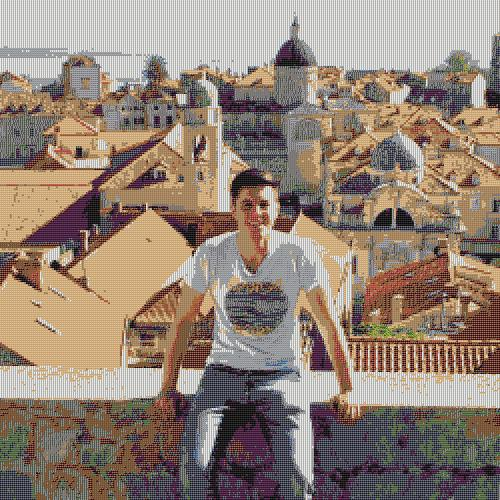
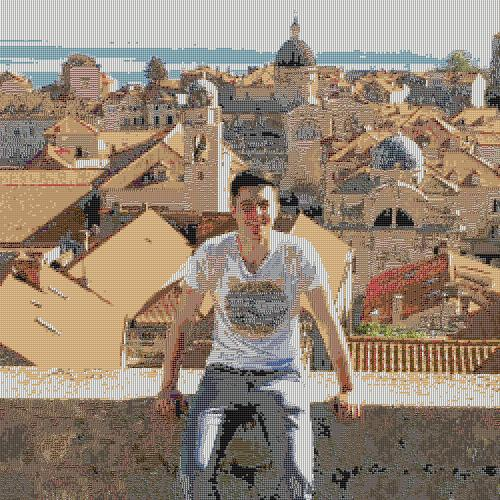
library images are now resized before having their average calculated for speed improvement

diff --git a/mosaic.py b/mosaic.py
@@ -9,7 +9,7 @@ import imagehash, sqlite3, time
 ##################
 def resize_source_image( image ):  
   #default dimensions to resize source image to
-  source_size = 500, 500
+  source_size = 500,500
   image.thumbnail(source_size, Image.ANTIALIAS)
   image.show()
   return image
@@ -23,25 +23,17 @@ def resize_library_images(tile_size):
   for f in os.listdir(os.getcwd()):
       tile = Image.open(f)
       tile = ImageOps.fit(tile, tile_size, Image.ANTIALIAS)
-      #tile.thumbnail(tile_size, Image.ANTIALIAS)
       images.append(tile)
   return images
 
 ##################
 #calculate average RGB of image
 ##################
-def calc_average_rgb(image, histogram_average, is_block):
-  width, height = image.size
-  PixelValues = list(image.getdata())
+def calc_average_rgb(image, is_block):
+  if not is_block:
+    image = ImageOps.fit(image, (50,50), Image.ANTIALIAS)
 
-  #if an RGB value occurs only once, we consider it an outlier, and do not include in
-  # our calculcation of the mean
-  if histogram_average:
-    if is_block:
-      for i in PixelValues:
-        if PixelValues.count(i) < 2:          
-          PixelValues.remove(i)
-      #print len(PixelValues)
+  PixelValues = list(image.getdata())
 
   RValues = [x[0] for x in PixelValues]
   GValues = [x[1] for x in PixelValues]
@@ -61,14 +53,14 @@ def calc_image_hash(image):
 ##################
 #divide source image into blocks for replacement
 ##################
-def divide_image_into_blocks(image, tile_size, output_rgb_dict, output_hash_dict, histogram_average):
+def divide_image_into_blocks(image, tile_size, output_rgb_dict, output_hash_dict):
   width, height = image.size
 
   coordinate = 0;
   for i in range(0, width, tile_size[0]):
     for j in range(0, height, tile_size[1]):
       cropped_image = image.crop((i, j, i+tile_size[0], j+tile_size[1]))
-      output_rgb_dict[coordinate] = calc_average_rgb(cropped_image, histogram_average, True)
+      output_rgb_dict[coordinate] = calc_average_rgb(cropped_image, True)
       output_hash_dict[coordinate] = calc_image_hash(cropped_image)
       coordinate += 1
 
@@ -125,7 +117,7 @@ def closest_tile_hashing(tile_hashes, block_hash, vary_tiles):
 ##################
 #main method - construct mosaic from tiles in library
 ##################
-def create_mosaic(source_image, input_tile_size, outlier_flagging, vary_tiles, histogram_average):
+def create_mosaic(source_image, input_tile_size, outlier_flagging, vary_tiles):
   start = time.time()
 
   target_image = Image.open(source_image)
@@ -154,6 +146,12 @@ def create_mosaic(source_image, input_tile_size, outlier_flagging, vary_tiles, h
   print 'Gathering image tiles from library...'
   for i in range(0, len(db_tiles), 1):
     t = Image.open('library/'+(db_tiles[i])[0])
+
+    if ((db_tiles[i])[1], (db_tiles[i])[2], (db_tiles[i])[3]) in tile_rgb_averages:
+      print 'WARNING: 2 tiles with same RGB average: ', tile_rgb_averages[((db_tiles[i])[1], (db_tiles[i])[2], (db_tiles[i])[3])], '+', t
+      tile_rgb_averages[((db_tiles[i])[1], (db_tiles[i])[2], (db_tiles[i])[3])].show()
+      t.show()
+
     tile_rgb_averages[((db_tiles[i])[1], (db_tiles[i])[2], (db_tiles[i])[3])] = t
 
   #HASHING CODE
@@ -163,7 +161,7 @@ def create_mosaic(source_image, input_tile_size, outlier_flagging, vary_tiles, h
   block_rgb_dict = {}
   #Key = Coordinate in Source, Value = hash
   block_hash_dict = {}
-  cropped_image_xy = divide_image_into_blocks(target_image, tile_size, block_rgb_dict, block_hash_dict, histogram_average)
+  cropped_image_xy = divide_image_into_blocks(target_image, tile_size, block_rgb_dict, block_hash_dict)
 
   #create base mosaic image of default dimensions
   mosaic = Image.new('RGB', (target_image.size[0], target_image.size[1]), color=(255, 0, 255))
@@ -175,6 +173,7 @@ def create_mosaic(source_image, input_tile_size, outlier_flagging, vary_tiles, h
   
   db_tiles_rgb_values = []
 
+  print 'Creating mosaic...'
   for i in range(0, len(block_rgb_dict.keys()), 1):    
     #find closest colour tile in library to this specific block
     tile_rgb_to_replace_block = closest_tile(tile_rgb_averages.keys(), block_rgb_dict.values()[i], vary_tiles)

diff --git a/SSIM_tests.py b/SSIM_tests.py
@@ -1,0 +1,34 @@
+from PIL import Image, ImageOps
+import os
+import mosaic, createallmosaics
+import sys
+import commands
+
+monkey_list = ['monkey50mosaic', 'monkey20mosaic', 'monkey10mosaic', 'monkey5mosaic']
+monkey_naive_results = []
+
+me_list = ['me50mosaic', 'me20mosaic', 'me10mosaic', 'me5mosaic']
+me_naive_results = []
+
+rainbow_list = ['rainbow50mosaic', 'rainbow20mosaic', 'rainbow10mosaic', 'rainbow5mosaic']
+rainbow_naive_results = []
+#createallmosaics.create_mosaics('')
+
+print 'Naive mosaic SSIM results\n'
+for mosaic in monkey_list:
+  result = commands.getstatusoutput('python tests.py output/' + mosaic + '.jpg monkey.jpg')[1]
+  monkey_naive_results.append(float(result))
+  print result, mosaic, 'naive'  
+print '\n'
+
+for mosaic in me_list:
+  result = commands.getstatusoutput('python tests.py output/' + mosaic + '.jpg me.jpg')[1]
+  me_naive_results.append(float(result))
+  print result, mosaic, 'naive' 
+print '\n'
+
+for mosaic in rainbow_list:
+  result = commands.getstatusoutput('python tests.py output/' + mosaic + '.jpg rainbow.jpg')[1]
+  rainbow_naive_results.append(float(result))
+  print result, mosaic, 'naive' 
+print '\n------------------------------------\n'

diff --git a/makemosaic.py b/makemosaic.py
@@ -7,15 +7,12 @@ if len(sys.argv) >= 4:
   #no point in being able to flag and vary at the same time
   if sys.argv[3] == 'flag':
     print "Outlier flagging is on"
-    mosaic.create_mosaic(sys.argv[1], int(sys.argv[2]), True, False, False)
+    mosaic.create_mosaic(sys.argv[1], int(sys.argv[2]), True, False)
   elif sys.argv[3] == 'vary':
     print "Tile variance (closest 2 matches) is on"
-    mosaic.create_mosaic(sys.argv[1], int(sys.argv[2]), False, True, False)
-  elif sys.argv[3] == 'histogram':
-    print "Histogram RGB averaging is on"
-    mosaic.create_mosaic(sys.argv[1], int(sys.argv[2]), False, False, True)
+    mosaic.create_mosaic(sys.argv[1], int(sys.argv[2]), False, True)
   else:
-    mosaic.create_mosaic(sys.argv[1], int(sys.argv[2]), False, False, False)
+    mosaic.create_mosaic(sys.argv[1], int(sys.argv[2]), False, False)
 
 else:
-  mosaic.create_mosaic(sys.argv[1], int(sys.argv[2]), False, False, False)
+  mosaic.create_mosaic(sys.argv[1], int(sys.argv[2]), False, False)

diff --git a/processlibrary.py b/processlibrary.py
@@ -17,7 +17,7 @@ os.chdir(r'library')
 for f in os.listdir(os.getcwd()):
     tile = Image.open(f)
 
-    tile_RGB = mosaic.calc_average_rgb(tile, False, False)
+    tile_RGB = mosaic.calc_average_rgb(tile, False)
     tile_RValue = tile_RGB[0]
     tile_GValue = tile_RGB[1]
     tile_BValue = tile_RGB[2]
